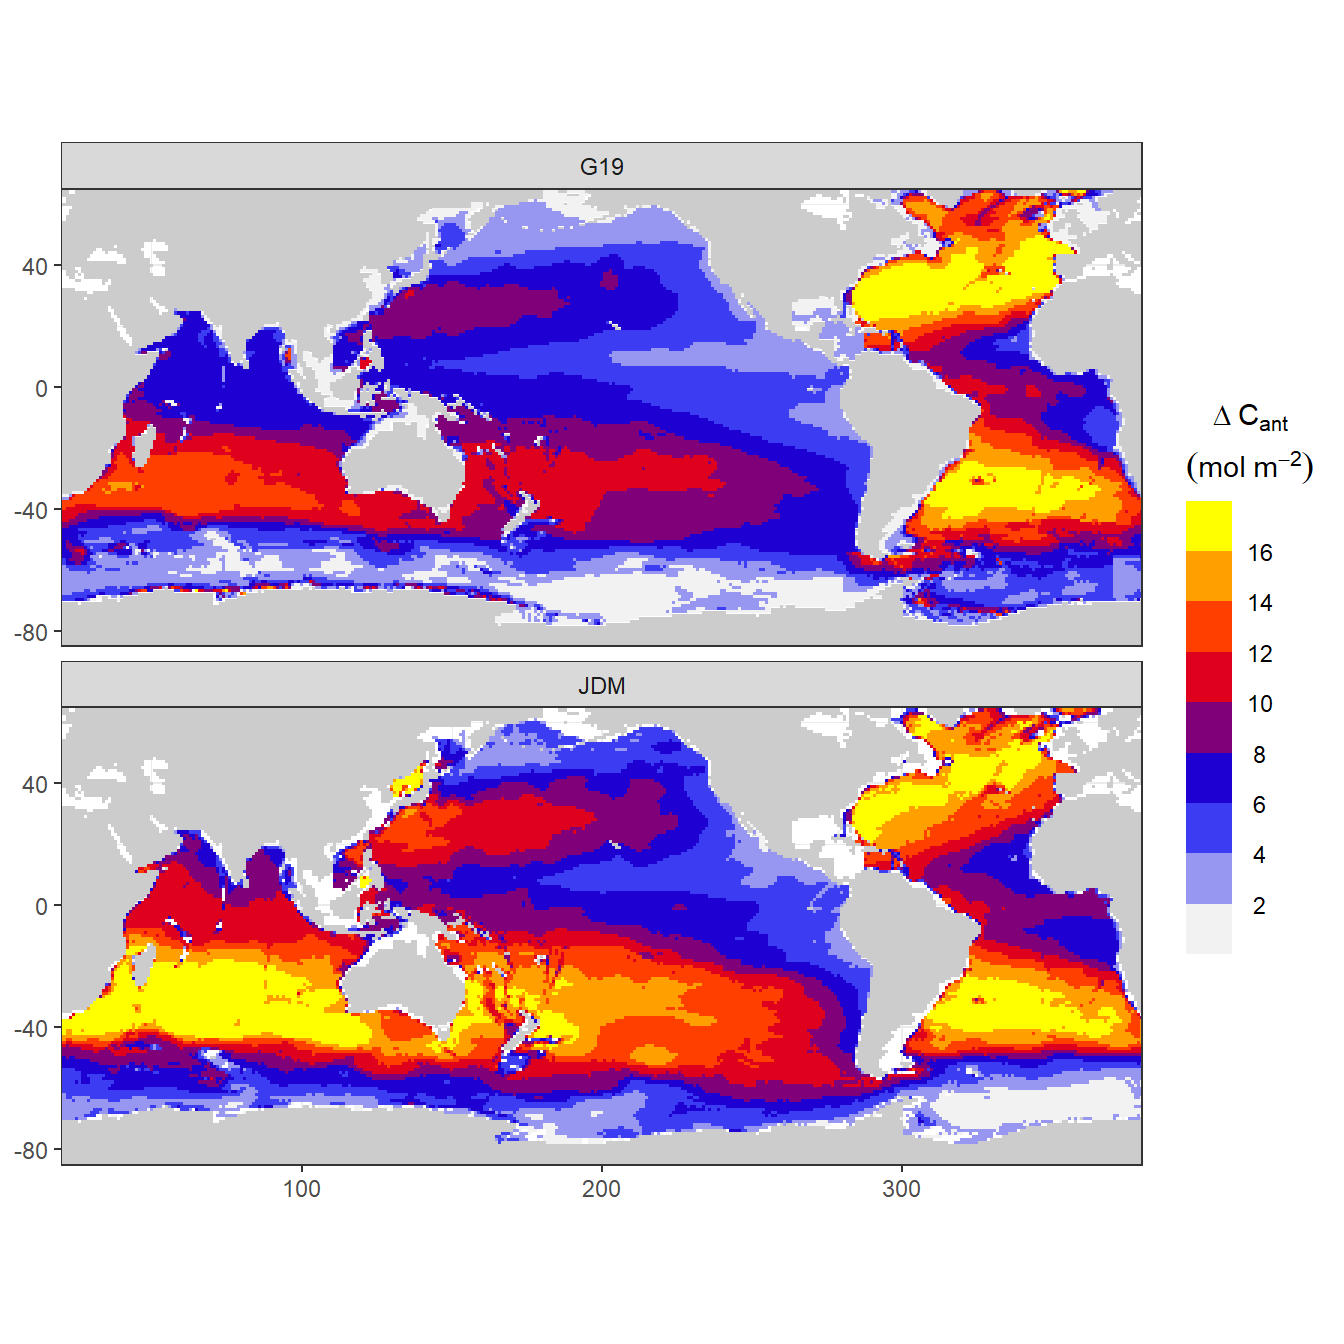
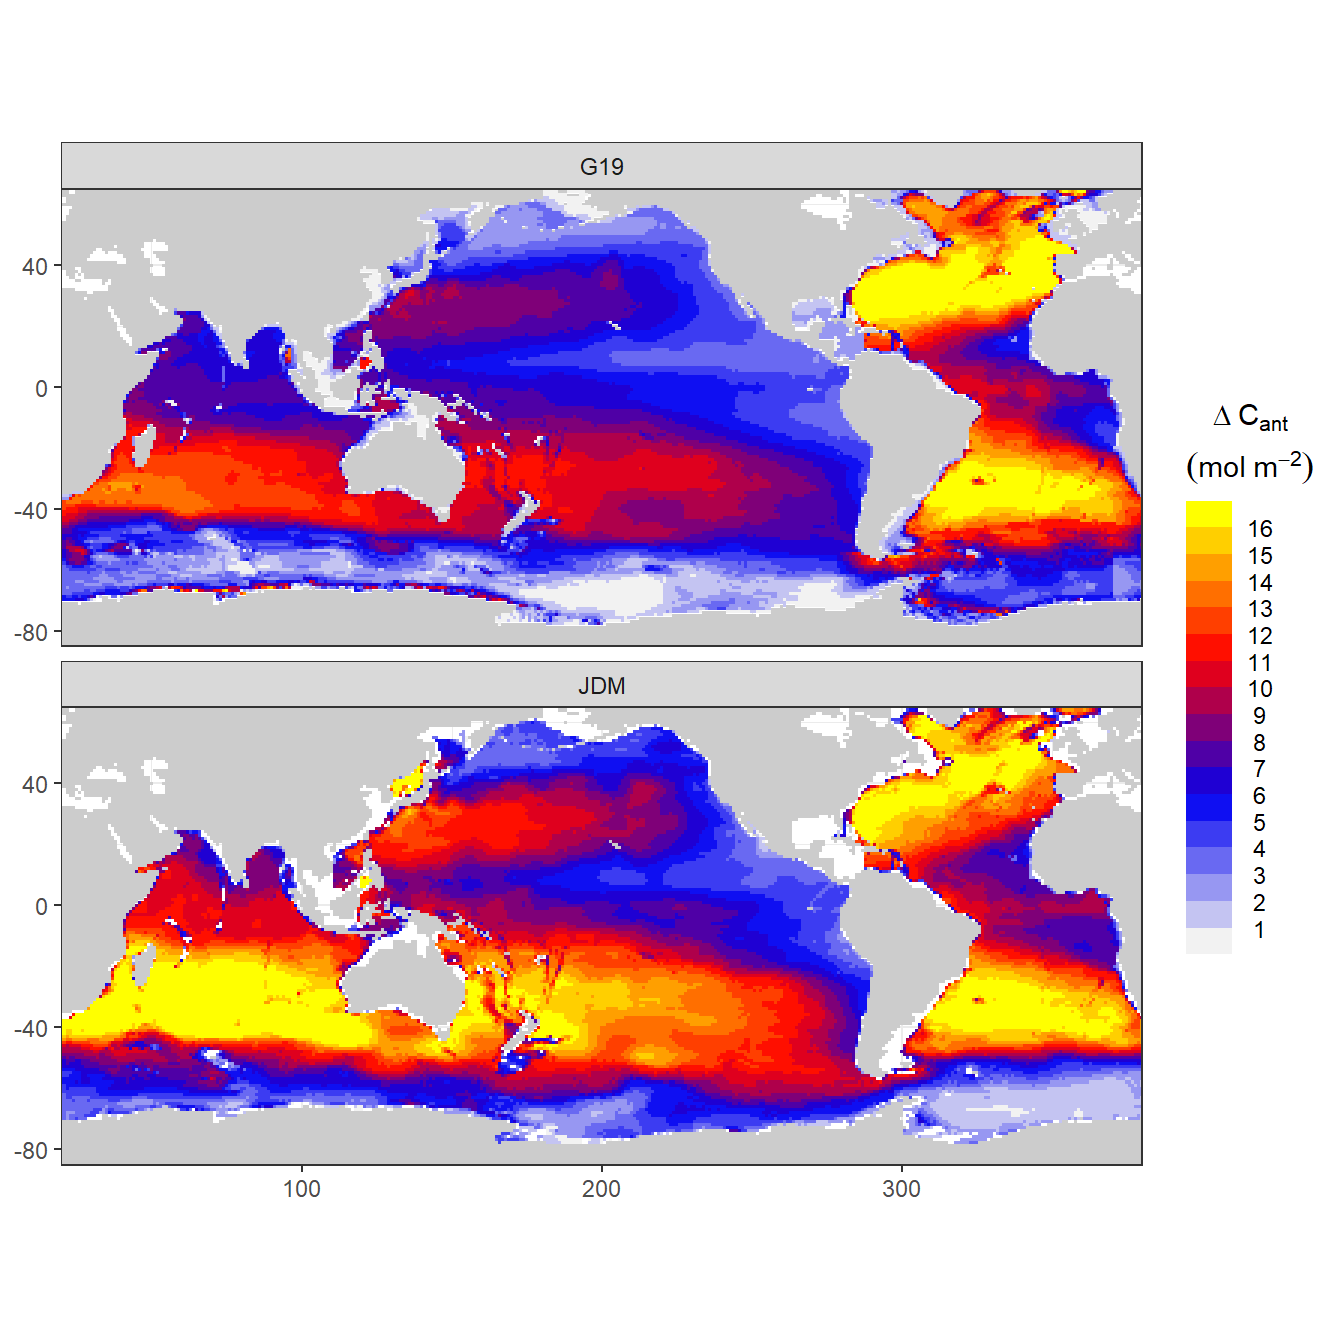
Build site.

Changed region(s): [[0.0312, 0.125, 0.8438, 0.4688], [0.0312, 0.5312, 0.8438, 0.8438], [0.875, 0.375, 0.9688, 0.6875]]

diff --git a/docs/analysis_this_study_vs_Gruber_2019.html b/docs/analysis_this_study_vs_Gruber_2019.html
@@ -624,16 +624,16 @@ This reproducible <a href="http://rmarkdown.rstudio.com">R Markdown</a> analysis
 <div class="panel panel-default">
 <div class="panel-heading">
 <p class="panel-title">
-<a data-toggle="collapse" data-parent="#workflowr-checks" href="#strongRepositoryversionstrongahrefhttpsgithubcomjensdanielmuellerCanteMLRtree348376c454ee0eca1588d679360a807e0a9c9128targetblank348376ca"> <span class="glyphicon glyphicon-ok text-success" aria-hidden="true"></span> <strong>Repository version:</strong> <a href="https://github.com/jens-daniel-mueller/Cant_eMLR/tree/348376c454ee0eca1588d679360a807e0a9c9128" target="_blank">348376c</a> </a>
+<a data-toggle="collapse" data-parent="#workflowr-checks" href="#strongRepositoryversionstrongahrefhttpsgithubcomjensdanielmuellerCanteMLRtreeefe92fdfe5ad9b036946a371fb0d9abda6632c9ctargetblankefe92fda"> <span class="glyphicon glyphicon-ok text-success" aria-hidden="true"></span> <strong>Repository version:</strong> <a href="https://github.com/jens-daniel-mueller/Cant_eMLR/tree/efe92fdfe5ad9b036946a371fb0d9abda6632c9c" target="_blank">efe92fd</a> </a>
 </p>
 </div>
[2 lines of base64/hex data omitted]
 <div class="panel-body">
 <p>
 Great! You are using Git for version control. Tracking code development and connecting the code version to the results is critical for reproducibility.
 </p>
 <p>
-The results in this page were generated with repository version <a href="https://github.com/jens-daniel-mueller/Cant_eMLR/tree/348376c454ee0eca1588d679360a807e0a9c9128" target="_blank">348376c</a>. See the <em>Past versions</em> tab to see a history of the changes made to the R Markdown and HTML files.
+The results in this page were generated with repository version <a href="https://github.com/jens-daniel-mueller/Cant_eMLR/tree/efe92fdfe5ad9b036946a371fb0d9abda6632c9c" target="_blank">efe92fd</a>. See the <em>Past versions</em> tab to see a history of the changes made to the R Markdown and HTML files.
 </p>
 <p>
 Note that you need to be careful to ensure that all relevant files for the analysis have been committed to Git prior to generating the results (you can use <code>wflow_publish</code> or <code>wflow_git_commit</code>). workflowr only checks the R Markdown file, but you know if there are other scripts or data files that it depends on. Below is the status of the Git repository when the results were generated:
@@ -693,6 +693,40 @@ Message
 </tr>
 </thead>
 <tbody>
+<tr>
+<td>
+Rmd
+</td>
+<td>
+<a href="https://github.com/jens-daniel-mueller/Cant_eMLR/blob/efe92fdfe5ad9b036946a371fb0d9abda6632c9c/analysis/analysis_this_study_vs_Gruber_2019.Rmd" target="_blank">efe92fd</a>
+</td>
+<td>
+jens-daniel-mueller
+</td>
+<td>
+2020-11-10
+</td>
+<td>
+corrected gruber color scale breaks
+</td>
+</tr>
+<tr>
+<td>
+html
+</td>
+<td>
+<a href="https://rawcdn.githack.com/jens-daniel-mueller/Cant_eMLR/829c6630f060a06e0552aa00b3c6d115de044b16/docs/analysis_this_study_vs_Gruber_2019.html" target="_blank">829c663</a>
+</td>
+<td>
+jens-daniel-mueller
+</td>
+<td>
+2020-11-10
+</td>
+<td>
+Build site.
+</td>
+</tr>
 <tr>
 <td>
 Rmd
@@ -2095,7 +2129,7 @@ cant_inventory_budget %&gt;%
 <div id="absolute-values" class="section level3">
 <h3><span class="header-section-number">4.1.1</span> Absolute values</h3>
 <p>Column inventory of positive cant between the surface and 3000m water depth per horizontal grid cell (lat x lon).</p>
-<pre class="r"><code>breaks &lt;- c(seq(0, 16, 2), Inf)
+<pre class="r"><code>breaks &lt;- c(seq(0, 16, 1), Inf)
 breaks_n &lt;- length(breaks) - 1
 
 cant_inventory_long &lt;- cant_inventory_long %&gt;%
@@ -2107,7 +2141,7 @@ map +
   geom_raster(data = cant_inventory_long,
               aes(lon, lat, fill = cant_pos_inv_int)) +
   scale_fill_manual(values = Gruber_rainbow(breaks_n),
-                    name = expression(atop(Delta~C[ant],
+                     name = expression(atop(Delta~C[ant],
                                            (mol~m^{-2})))) +
   guides(fill = guide_colorsteps(barheight = unit(6, &quot;cm&quot;))) +
   # scale_fill_scico_d(palette = &quot;lapaz&quot;, direction = -1) +
